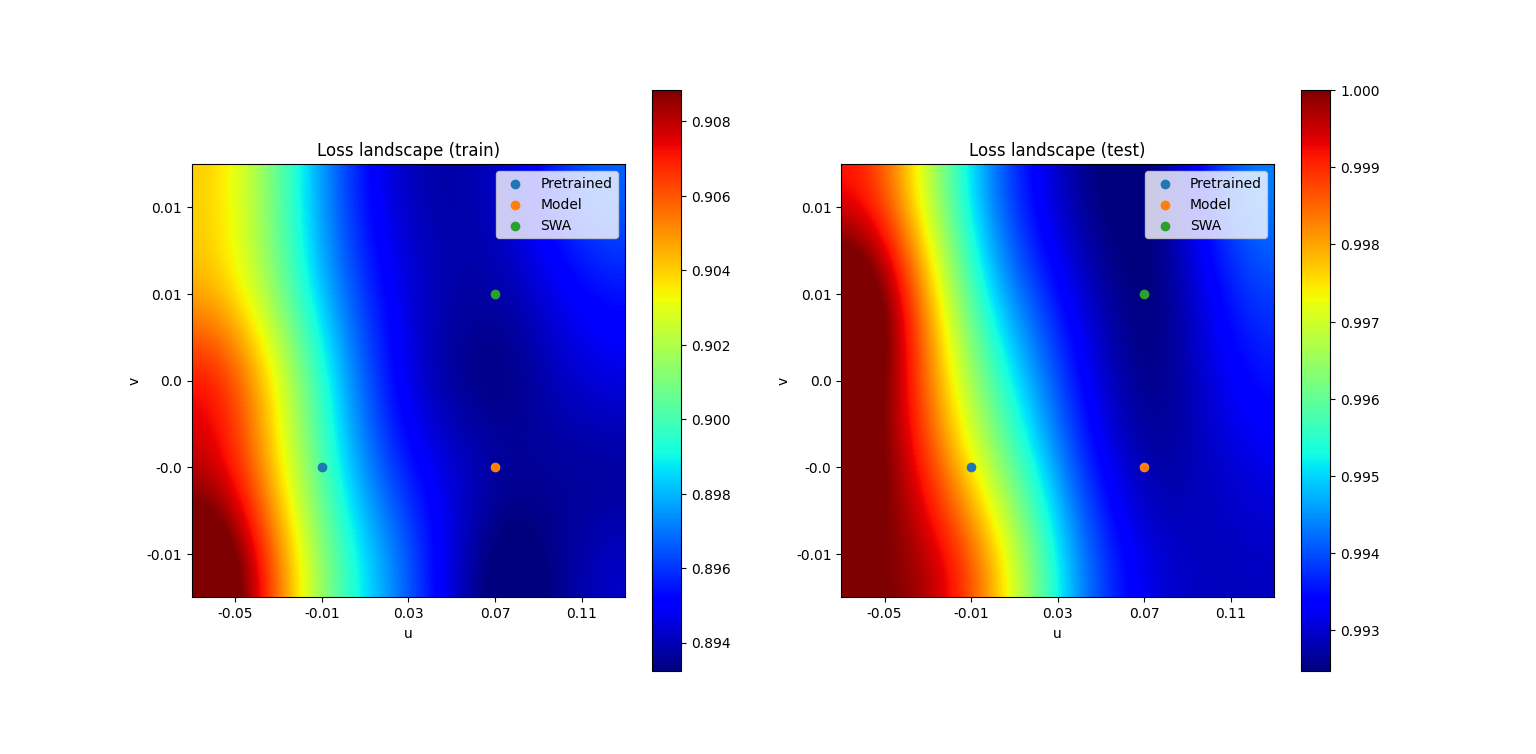
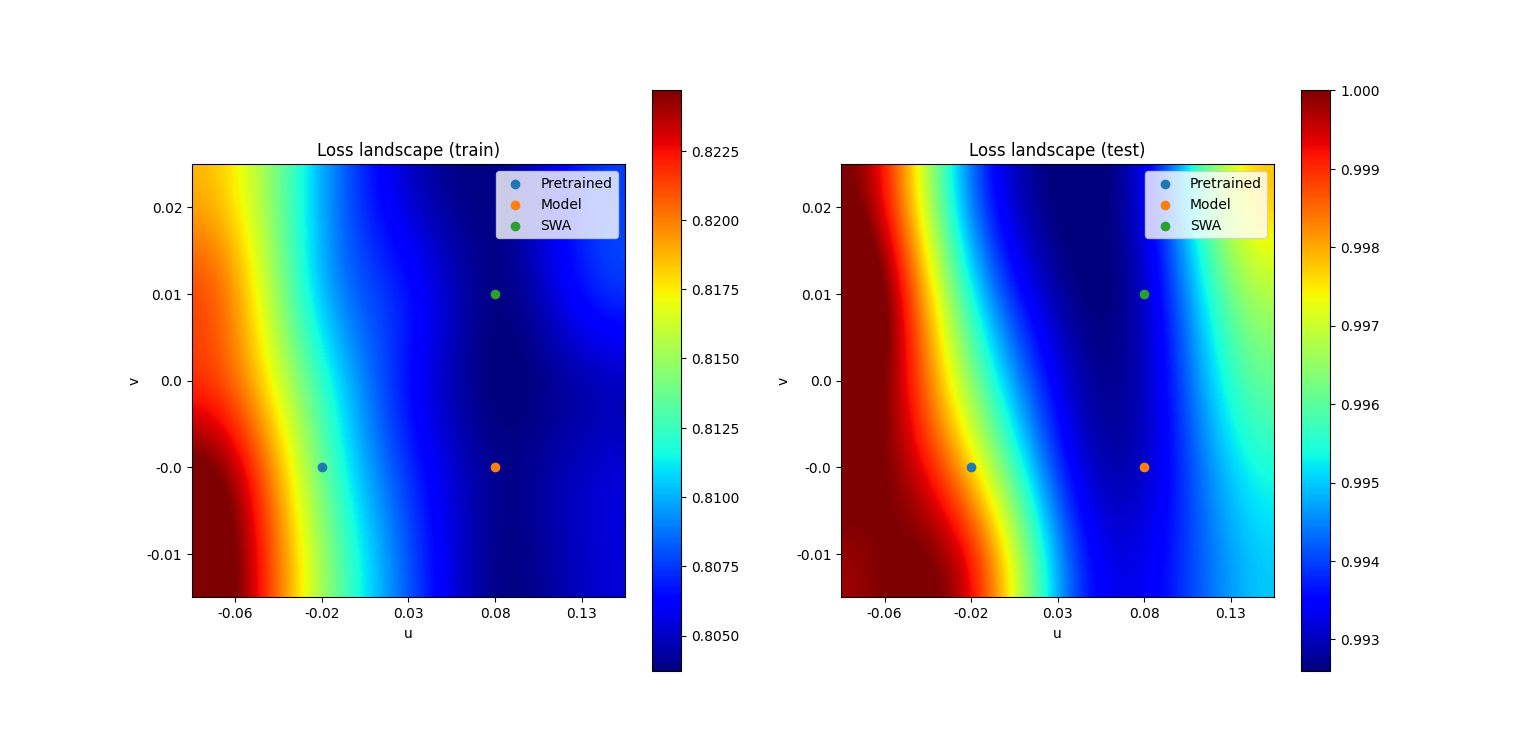
add ensembling to image classif scripts

diff --git a/src/swa_benchmark/scripts/mnist/cnn.py b/src/swa_benchmark/scripts/mnist/cnn.py
@@ -17,8 +17,17 @@ if __name__ == "__main__":
     ds_train, ds_test = MNISTDataset(train=True), MNISTDataset(train=False)
     print(f"Train dataset length: {len(ds_train)}, Test dataset length: {len(ds_test)}")
 
-    train_dl = DataLoader(ds_train, batch_size=batch_size, shuffle=True, num_workers=0, pin_memory=True)
-    test_dl = DataLoader(ds_test, batch_size=1024, shuffle=False, drop_last=False, num_workers=0, pin_memory=True)
+    train_dl = DataLoader(
+        ds_train, batch_size=batch_size, shuffle=True, num_workers=0, pin_memory=True
+    )
+    test_dl = DataLoader(
+        ds_test,
+        batch_size=1024,
+        shuffle=False,
+        drop_last=False,
+        num_workers=0,
+        pin_memory=True,
+    )
 
     input_size = 1
     hidden_size = 32
@@ -26,7 +35,12 @@ if __name__ == "__main__":
     n_layers = 3
 
     device = torch.device("cuda" if torch.cuda.is_available() else "cpu")
-    model = CNN(input_size=input_size, hidden_size=hidden_size, output_size=output_size, n_layers=n_layers).to(device)
+    model = CNN(
+        input_size=input_size,
+        hidden_size=hidden_size,
+        output_size=output_size,
+        n_layers=n_layers,
+    ).to(device)
 
     epochs = 5
     eta_max = 0.01
@@ -34,32 +48,97 @@ if __name__ == "__main__":
 
     criterion = torch.nn.CrossEntropyLoss()
     optimizer = torch.optim.AdamW(model.parameters(), lr=eta_max, weight_decay=1e-4)
-    scheduler = cosineLR(epochs=epochs, eta_min=eta_min, eta_max=eta_max, loader_length=len(train_dl))
-    train(train_dl=train_dl, test_dl=test_dl, optimizer=optimizer, scheduler=scheduler, criterion=criterion, model=model, epochs=epochs, device=device, metric=accuracy)
+    scheduler = cosineLR(
+        epochs=epochs, eta_min=eta_min, eta_max=eta_max, loader_length=len(train_dl)
+    )
+    train(
+        train_dl=train_dl,
+        test_dl=test_dl,
+        optimizer=optimizer,
+        scheduler=scheduler,
+        criterion=criterion,
+        model=model,
+        epochs=epochs,
+        device=device,
+        metric=accuracy,
+    )
 
-    pretrained_model = CNN(input_size=input_size, hidden_size=hidden_size, output_size=output_size, n_layers=n_layers).to(device)
+    pretrained_model = CNN(
+        input_size=input_size,
+        hidden_size=hidden_size,
+        output_size=output_size,
+        n_layers=n_layers,
+    ).to(device)
     pretrained_model.load_state_dict(model.state_dict())
 
-    swa_model = CNN(input_size=input_size, hidden_size=hidden_size, output_size=output_size, n_layers=n_layers).to(device)
+    swa_model = CNN(
+        input_size=input_size,
+        hidden_size=hidden_size,
+        output_size=output_size,
+        n_layers=n_layers,
+    ).to(device)
 
     swa_epochs = 12
     eta_max = 0.001
     eta_min = 0.0001
     swa_length = 3
+    return_ensemble = True
 
     optimizer = torch.optim.SGD(model.parameters(), lr=eta_max, weight_decay=1e-4)
-    swa_scheduler = swaLinearLR(epochs=swa_epochs, eta_min=eta_min, eta_max=eta_max, loader_length=len(train_dl), swa_epoch_length=swa_length)
-    swa_train(train_dl=train_dl, test_dl=test_dl, optimizer=optimizer, scheduler=swa_scheduler, criterion=criterion, model=model, epochs=swa_epochs, swa_model=swa_model, swa_length=swa_length, device=device, metric=accuracy)
+    swa_scheduler = swaLinearLR(
+        epochs=swa_epochs,
+        eta_min=eta_min,
+        eta_max=eta_max,
+        loader_length=len(train_dl),
+        swa_epoch_length=swa_length,
+    )
+    _, _, ensemble_model = swa_train(
+        train_dl=train_dl,
+        test_dl=test_dl,
+        optimizer=optimizer,
+        scheduler=swa_scheduler,
+        criterion=criterion,
+        model=model,
+        epochs=swa_epochs,
+        swa_model=swa_model,
+        swa_length=swa_length,
+        device=device,
+        metric=accuracy,
+        return_ensemble=return_ensemble,
+        softmax_ensemble=True,
+        bn_update=True,
+    )
 
-    pretrained_loss, pretrained_metric = test_epoch(test_dl, pretrained_model, criterion, device, accuracy)
+    pretrained_loss, pretrained_metric = test_epoch(
+        test_dl, pretrained_model, criterion, device, accuracy
+    )
     model_loss, model_metric = test_epoch(test_dl, model, criterion, device, accuracy)
     swa_loss, swa_metric = test_epoch(test_dl, swa_model, criterion, device, accuracy)
 
+    print("=====================================")
+    print(
+        f"Pretrained model test loss: {pretrained_loss:.6f}, Model test loss: {model_loss:.6f}, SWA model test loss: {swa_loss:.6f}"
+    )
+    print(
+        f"Pretrained model test accuracy: {pretrained_metric:.6f}, Model test accuracy: {model_metric:.6f}, SWA model test accuracy: {swa_metric:.6f}"
+    )
+    if return_ensemble:
+        ensemble_loss, ensemble_metric = test_epoch(
+            test_dl, ensemble_model, criterion, device, accuracy
+        )
+        print(
+            f"Ensemble model test loss: {ensemble_loss:.6f}, Ensemble model test accuracy: {ensemble_metric:.6f}"
+        )
 
     print("=====================================")
-    print(f"Pretrained model test loss: {pretrained_loss:.6f}, Model test loss: {model_loss:.6f}, SWA model test loss: {swa_loss:.6f}")
-    print(f"Pretrained model test accuracy: {pretrained_metric:.6f}, Model test accuracy: {model_metric:.6f}, SWA model test accuracy: {swa_metric:.6f}")
-    print("=====================================")
 
-    plot_loss_landspace(models=[pretrained_model, model, swa_model], criterion=criterion, train_dl=train_dl, test_dl=test_dl, device=device, n_points=5, point_names=["Pretrained", "Model", "SWA"])
+    plot_loss_landspace(
+        models=[pretrained_model, model, swa_model],
+        criterion=criterion,
+        train_dl=train_dl,
+        test_dl=test_dl,
+        device=device,
+        n_points=5,
+        point_names=["Pretrained", "Model", "SWA"],
+    )
     plt.show()

diff --git a/src/swa_benchmark/scripts/cifar/cifar10_cnn.py b/src/swa_benchmark/scripts/cifar/cifar10_cnn.py
@@ -15,7 +15,9 @@ if __name__ == "__main__":
 
     batch_size = 256
 
-    ds_train, ds_test = CIFAR10Dataset(train=True), CIFAR10Dataset(train=False)
+    ds_train, ds_test = CIFAR10Dataset(
+        train=True, data_augmentation=False
+    ), CIFAR10Dataset(train=False)
     print(f"Train dataset length: {len(ds_train)}, Test dataset length: {len(ds_test)}")
 
     train_dl = DataLoader(
@@ -83,6 +85,7 @@ if __name__ == "__main__":
     eta_max = 0.001
     eta_min = 0.0001
     swa_length = 3
+    return_ensemble = True
 
     optimizer = torch.optim.SGD(model.parameters(), lr=eta_max, weight_decay=1e-4)
     swa_scheduler = swaLinearLR(
@@ -92,7 +95,7 @@ if __name__ == "__main__":
         loader_length=len(train_dl),
         swa_epoch_length=swa_length,
     )
-    swa_train(
+    _, _, ensemble_model = swa_train(
         train_dl=train_dl,
         test_dl=test_dl,
         optimizer=optimizer,
@@ -104,6 +107,9 @@ if __name__ == "__main__":
         swa_length=swa_length,
         device=device,
         metric=accuracy,
+        return_ensemble=return_ensemble,
+        softmax_ensemble=True,
+        bn_update=True,
     )
 
     pretrained_loss, pretrained_metric = test_epoch(
@@ -119,6 +125,14 @@ if __name__ == "__main__":
     print(
         f"Pretrained model test accuracy: {pretrained_metric:.6f}, Model test accuracy: {model_metric:.6f}, SWA model test accuracy: {swa_metric:.6f}"
     )
+    if return_ensemble:
+        ensemble_loss, ensemble_metric = test_epoch(
+            test_dl, ensemble_model, criterion, device, accuracy
+        )
+        print(
+            f"Ensemble model test loss: {ensemble_loss:.6f}, Ensemble model test accuracy: {ensemble_metric:.6f}"
+        )
+
     print("=====================================")
 
     plot_loss_landspace(

diff --git a/src/swa_benchmark/scripts/cifar/cifar100_mobilenet.py b/src/swa_benchmark/scripts/cifar/cifar100_mobilenet.py
@@ -1,5 +1,5 @@
 import torch
-from ...models import CNN
+from ...models import MobileNetV2
 from ...utils.training import train, swa_train, test_epoch
 from ...utils.scheduler import cosineLR, swaLinearLR
 from ...utils.visualization import plot_loss_landspace
@@ -33,18 +33,10 @@ if __name__ == "__main__":
     )
 
     input_size = 3
-    hidden_size = 32
-    output_size = 10
-    n_layers = 3
     output_size = 100
 
     device = torch.device("cuda" if torch.cuda.is_available() else "cpu")
-    model = CNN(
-        input_size=input_size,
-        hidden_size=hidden_size,
-        output_size=output_size,
-        n_layers=n_layers,
-    ).to(device)
+    model = MobileNetV2(input_size=input_size, output_size=output_size).to(device)
 
     epochs = 20
     eta_max = 0.01
@@ -67,20 +59,12 @@ if __name__ == "__main__":
         metric=accuracy,
     )
 
-    pretrained_model = CNN(
-        input_size=input_size,
-        hidden_size=hidden_size,
-        output_size=output_size,
-        n_layers=n_layers,
-    ).to(device)
+    pretrained_model = MobileNetV2(input_size=input_size, output_size=output_size).to(
+        device
+    )
     pretrained_model.load_state_dict(model.state_dict())
 
-    swa_model = CNN(
-        input_size=input_size,
-        hidden_size=hidden_size,
-        output_size=output_size,
-        n_layers=n_layers,
-    ).to(device)
+    swa_model = MobileNetV2(input_size=input_size, output_size=output_size).to(device)
 
     swa_epochs = 12
     eta_max = 0.001

diff --git a/src/swa_benchmark/datasets/cifar.py b/src/swa_benchmark/datasets/cifar.py
@@ -1,11 +1,10 @@
 from torchvision.datasets import CIFAR10, CIFAR100
-import torchvision
 import torchvision.transforms.v2 as transforms
 import torch
 
 
-def CIFAR10Dataset(train):
-    if train:
+def CIFAR10Dataset(train, data_augmentation=True):
+    if train and data_augmentation:
         transform = transforms.Compose(
             [
                 transforms.RandomHorizontalFlip(),
@@ -28,10 +27,25 @@ def CIFAR10Dataset(train):
     )
 
 
-def CIFAR100Dataset(train):
+def CIFAR100Dataset(train, data_augmentation=True):
+    if train and data_augmentation:
+        transform = transforms.Compose(
+            [
+                transforms.RandomHorizontalFlip(),
+                transforms.RandomRotation(10),
+                transforms.RandomAffine(0, shear=10, scale=(0.8, 1.2)),
+                transforms.ColorJitter(brightness=0.2, contrast=0.2, saturation=0.2),
+                transforms.ToImageTensor(),
+                transforms.ConvertImageDtype(torch.float32),
+            ]
+        )
+    else:
+        transform = transforms.Compose(
+            [transforms.ToImageTensor(), transforms.ConvertImageDtype(torch.float32)]
+        )
     return CIFAR100(
         root="./data",
         download=True,
-        transform=torchvision.transforms.ToTensor(),
+        transform=transform,
         train=train,
     )
